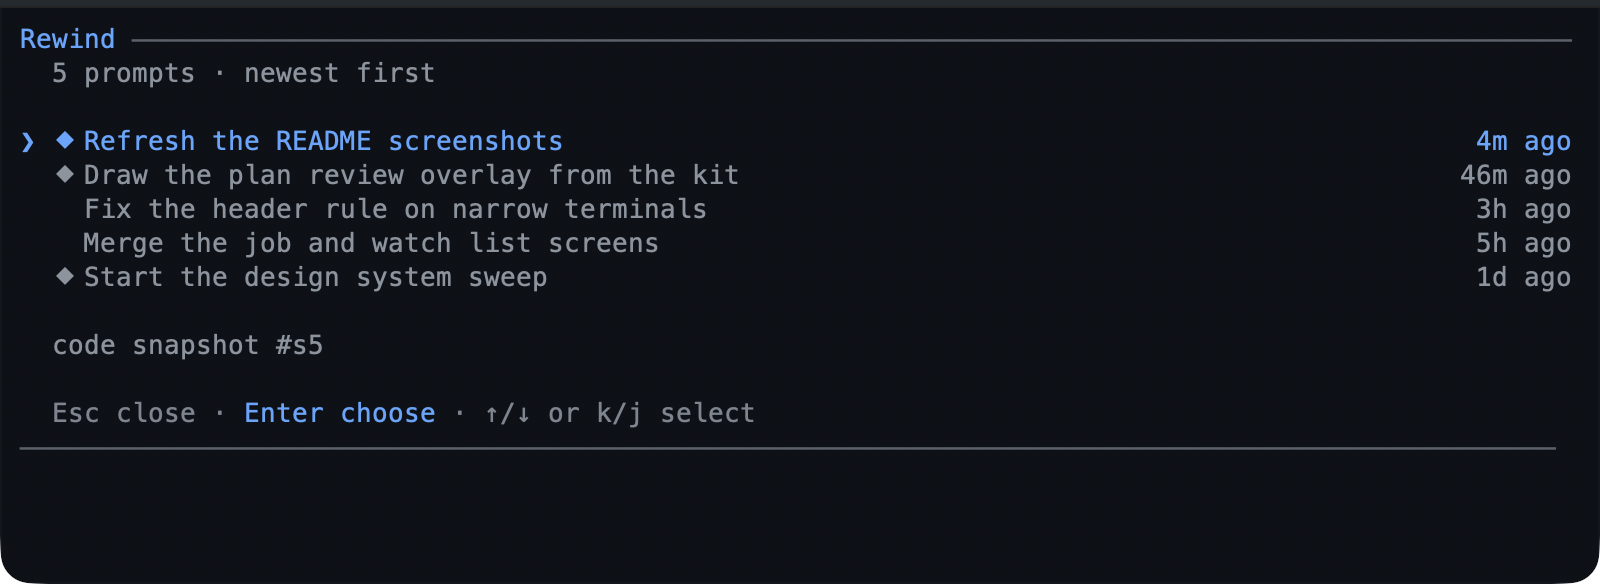
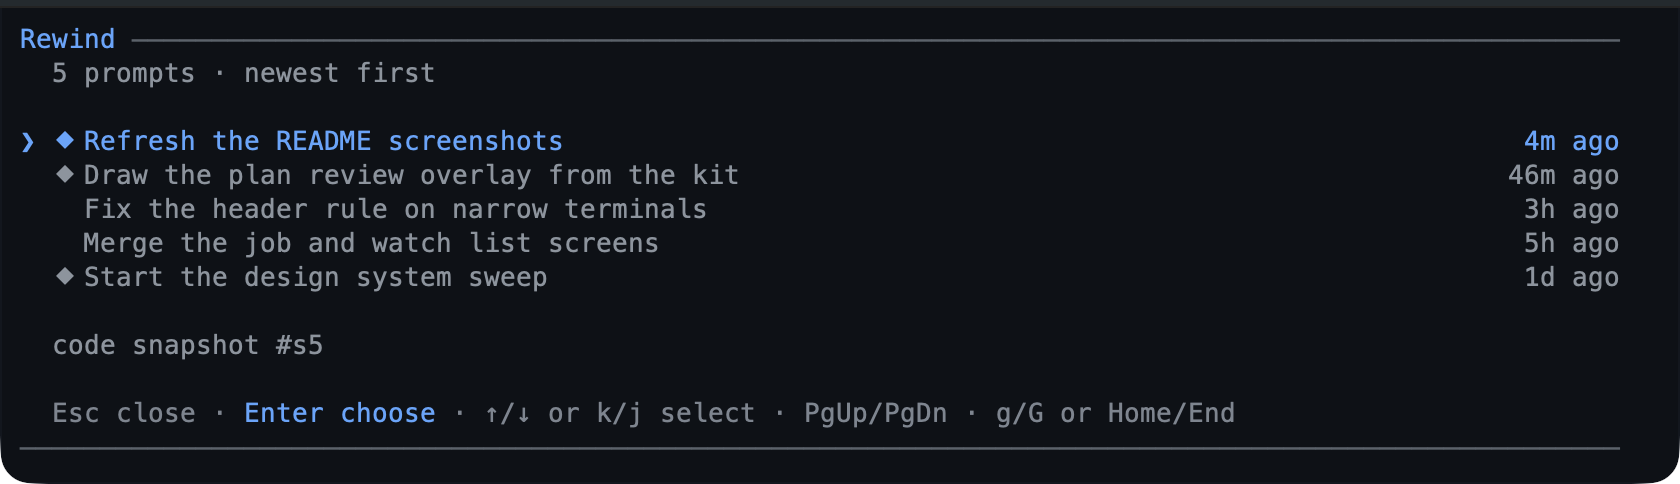
fix(rewind): show every key the rewind list answers
`navigateList` has always answered `PgUp`/`PgDn` and `g`/`G` or `Home`/`End` on
this screen, and `docs/extensions/rewind.md:58` already promised them, but the
footer printed only `Esc close · Enter choose · ↑/↓ or k/j select`. The same
primitive is documented in full one screen over — `todo/tui.ts:191` and
`check/tui.ts:94` both print `PgUp/PgDn` and `g/G` — so the list was the one
place a reader could not see the keys it had.

The poster is recaptured into a window sized to its frame: `scripts/screens`
gave `/rewind` no `bounds`/`size`, so 13 rows were drawn into the default
800×292pt window and 23% of the image was empty under the closing rule. It now
sets 100×13 rows in an 840×242pt window, the shape `watch` and `memory` use, and
measures 7% empty with the right edge flush. Recapture is the whole fix; no
other frame moved.

diff --git a/scripts/screens/index.ts b/scripts/screens/index.ts
@@ -172,6 +172,11 @@ export const SCREENS: Record<string, Screen> = {
 	rewind: {
 		asset: "rewind",
 		title: "π - my-pi-agent · /rewind",
+		// The frame is its header, summary, five prompts, the detail line and the hint:
+		// 13 rows, so the window is sized to it rather than leaving a third of the
+		// poster empty below the closing rule.
+		bounds: { left: 80, top: 80, right: 920, bottom: 350 },
+		size: { width: 100, rows: 13 },
 		render: (width, rows) =>
 			new RewindListComponent({
 				points: REWIND_POINTS,

diff --git a/extensions/rewind/view/rewind-tui.ts b/extensions/rewind/view/rewind-tui.ts
@@ -139,6 +139,12 @@ export class RewindListComponent implements Component {
 
 	/** The key-hint row, with the primary action in the accent role. */
 	private hint(width: number): string {
-		return screenHint(this.theme, width, ["Esc close", { text: "Enter choose", color: "accent" }, "↑/↓ or k/j select"]);
+		return screenHint(this.theme, width, [
+			"Esc close",
+			{ text: "Enter choose", color: "accent" },
+			"↑/↓ or k/j select",
+			"PgUp/PgDn",
+			"g/G or Home/End",
+		]);
 	}
 }

diff --git a/CHANGELOG.md b/CHANGELOG.md
@@ -112,6 +112,13 @@ to [Semantic Versioning](https://semver.org/spec/v2.0.0.html).
 
 ### Changed
 
+- `rewind`: the `/rewind` list's footer names the keys it already answered — `PgUp`/`PgDn`
+  and `g`/`G` or `Home`/`End` — instead of only `↑/↓` and `k`/`j`. The cursor has always
+  jumped on those keys, `docs/extensions/rewind.md` already said so, and `watch`, `todo`
+  and `check` print the same two hints for the same list primitive, so the screen was the
+  one place the whole key set was not visible. `assets/screens/rewind.png` is recaptured
+  in a window sized to its 13 rows, which takes the poster from 23% empty below the
+  closing rule to 7%, like `watch` and `memory`.
 - dev: `assets/` is grouped by what writes it — `cards/` the three posting posters with
   their stylesheets, `screens/` every captured frame (the terminal surfaces, the two
   browser pages, and the tool gallery), `tools/` the one-PNG-per-tool files — so the
